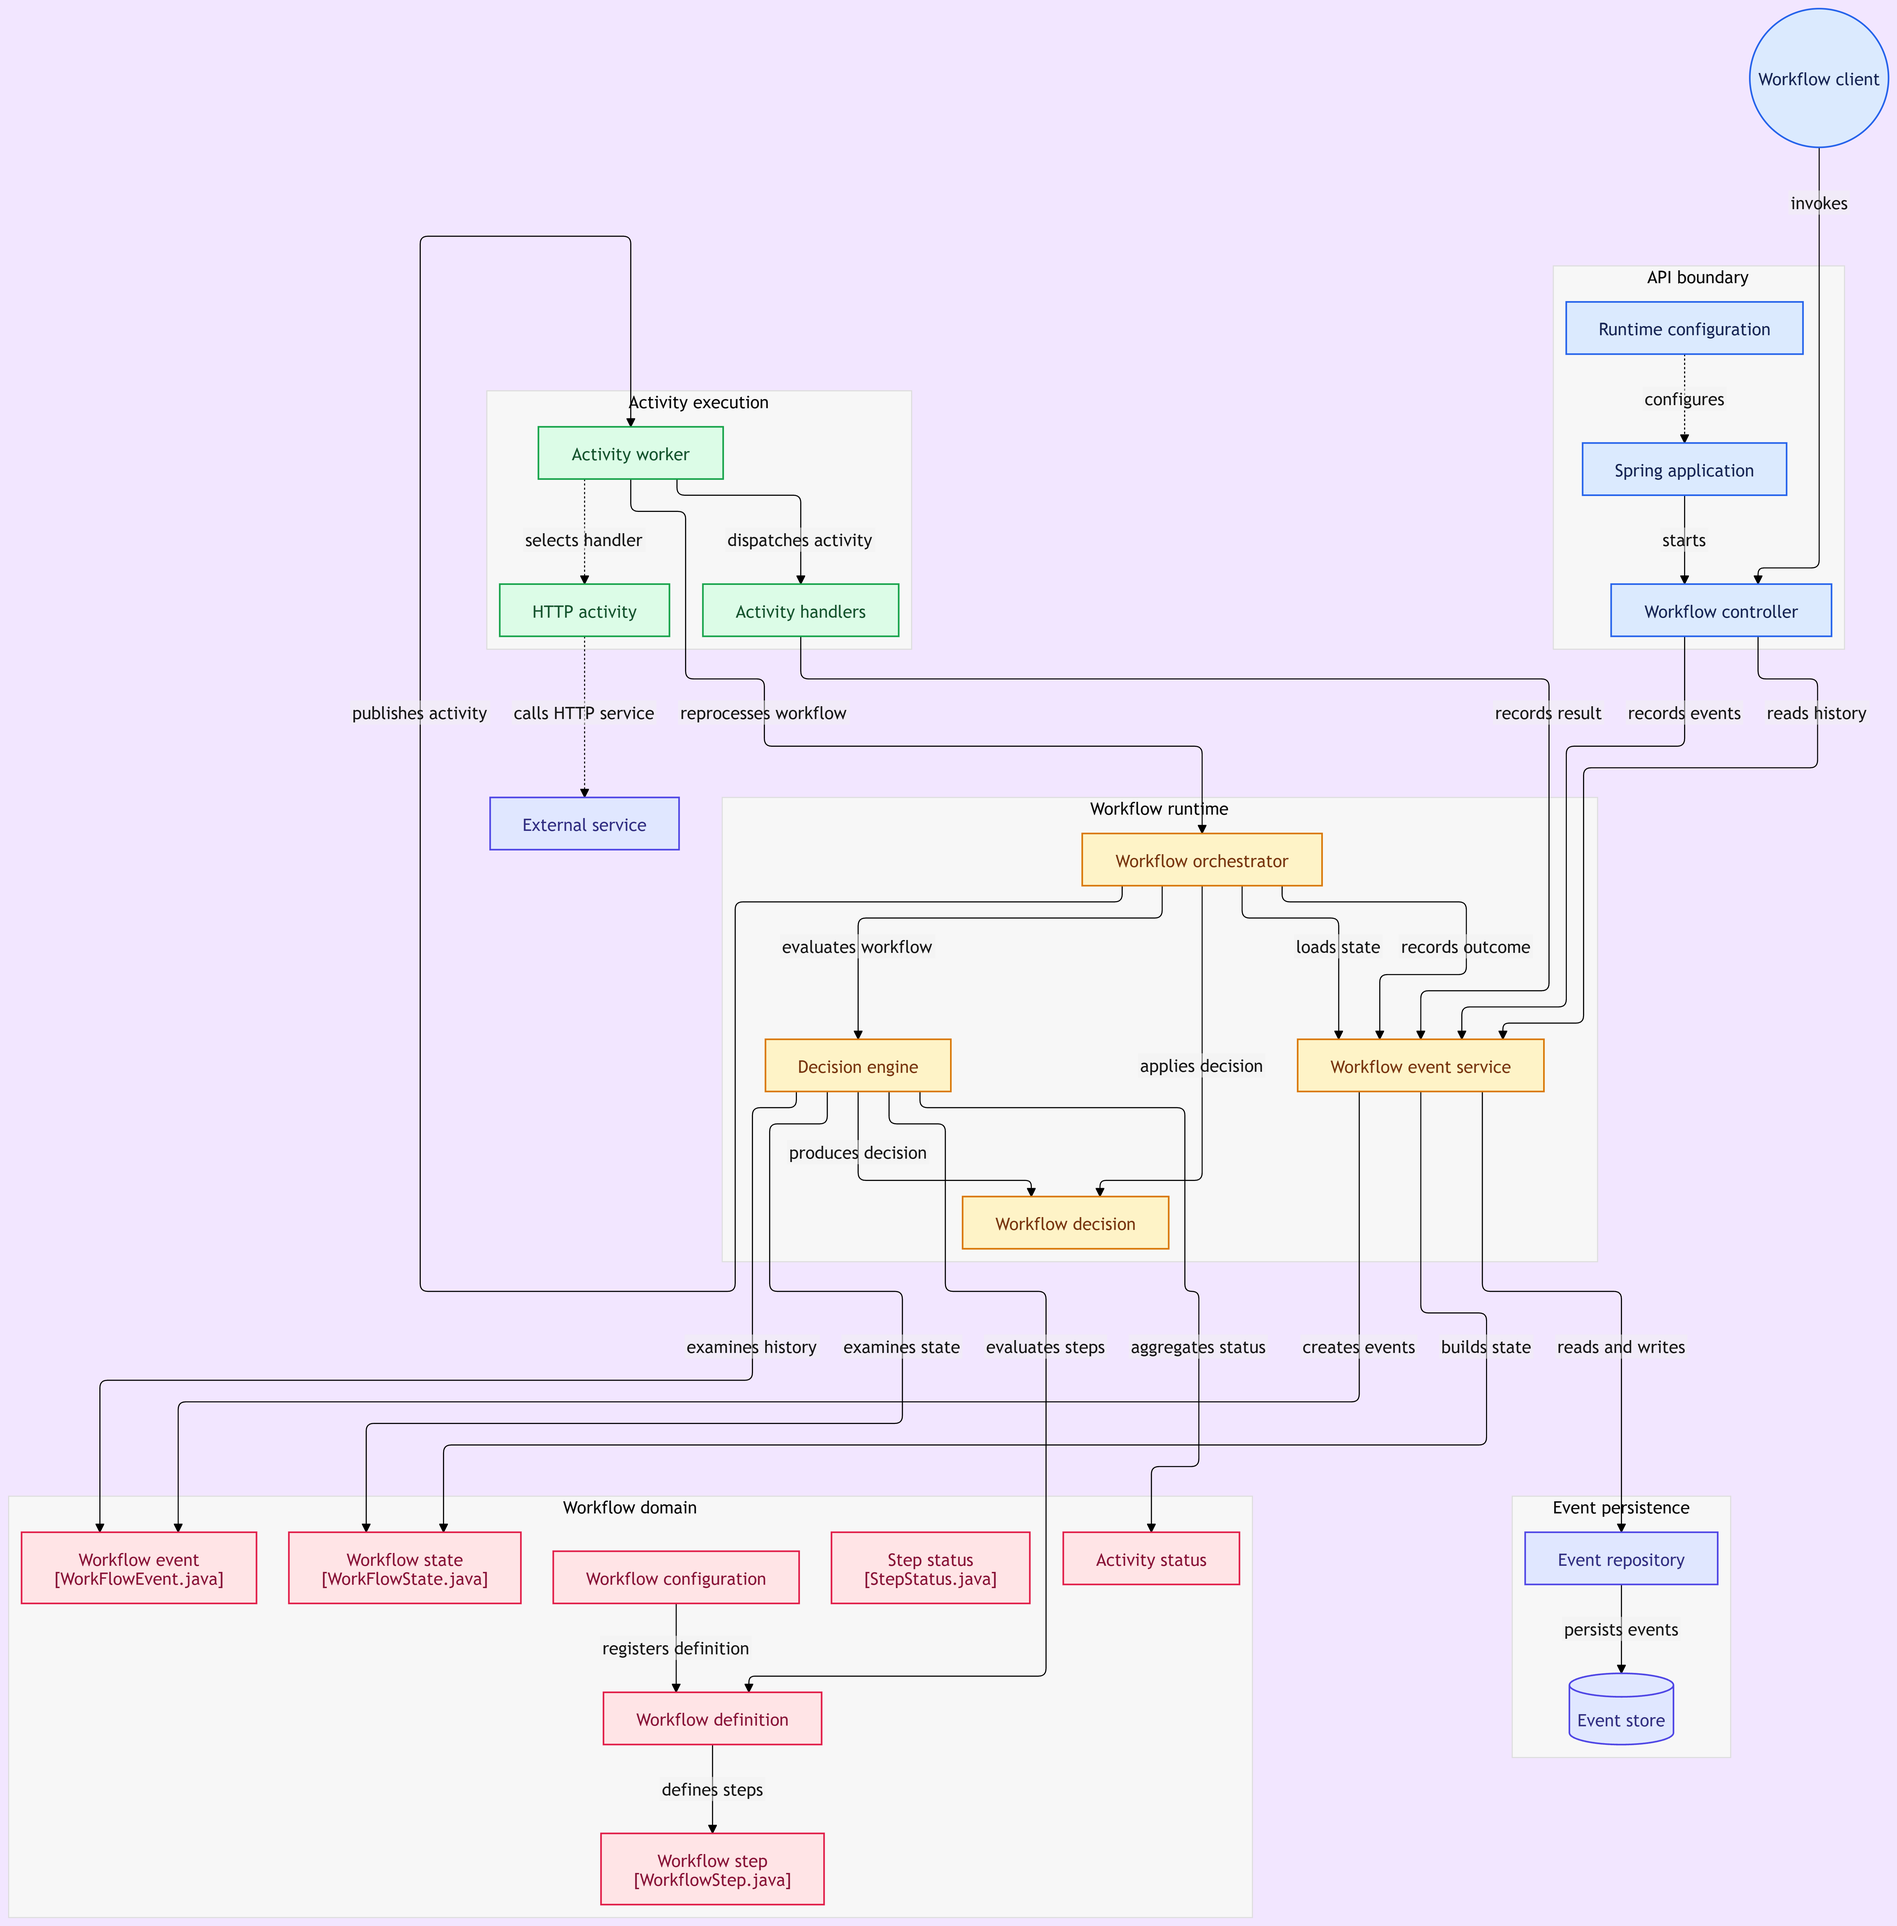
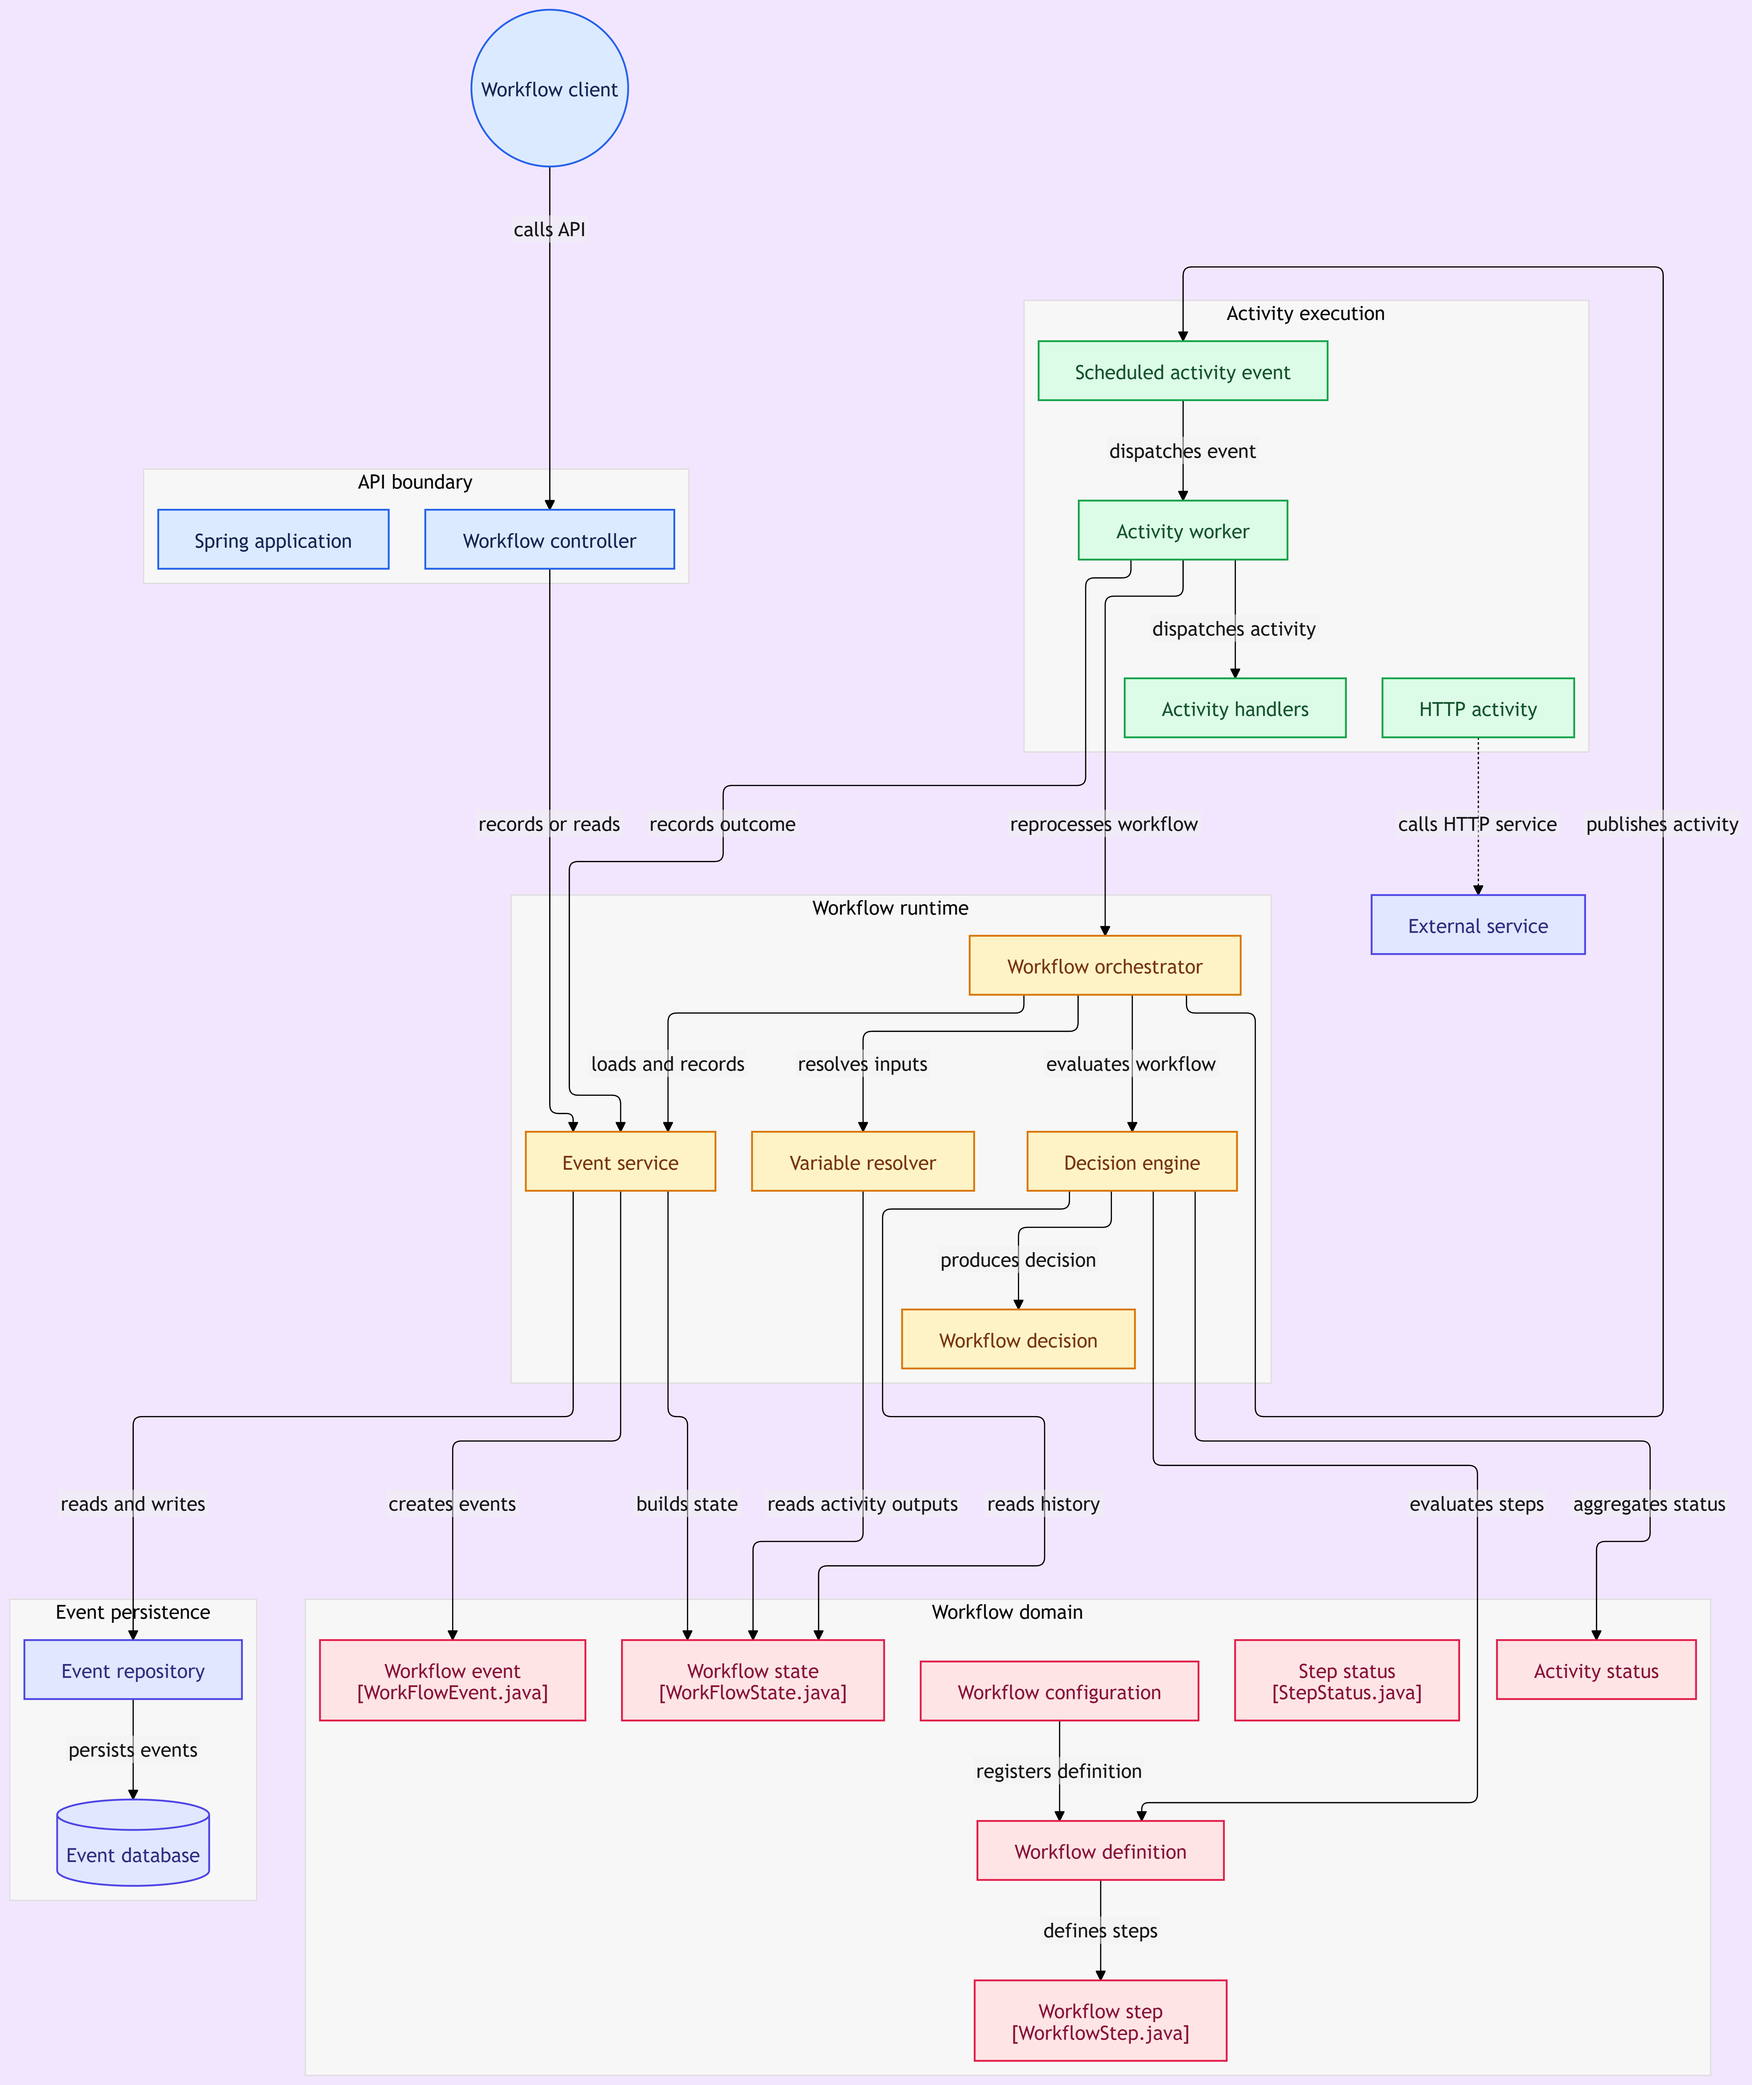
updated flow

diff --git a/README.md b/README.md
@@ -4,19 +4,20 @@ flowchart TD
 subgraph group_api["API boundary"]
   node_application["Spring application"]
   node_controller["Workflow controller"]
-  node_runtime_config["Runtime configuration"]
 end
 
 subgraph group_runtime["Workflow runtime"]
   node_orchestrator["Workflow orchestrator"]
-  node_event_service["Workflow event service"]
+  node_event_service["Event service"]
   node_decision_engine["Decision engine"]
   node_decision["Workflow decision"]
+  node_resolver["Variable resolver"]
 end
 
-subgraph group_activity["Activity execution"]
-  node_worker_listener["Activity worker"]
-  node_activity_handler["Activity handlers"]
+subgraph group_activities["Activity execution"]
+  node_scheduled_event["Scheduled activity event"]
+  node_worker["Activity worker"]
+  node_handler["Activity handlers"]
   node_http_handler["HTTP activity"]
 end
 
@@ -32,48 +33,45 @@ end
 
 subgraph group_persistence["Event persistence"]
   node_repository["Event repository"]
-  node_store[("Event store")]
+  node_store[("Event database")]
 end
 
 node_client(("Workflow client"))
 node_external_service["External service"]
 
-node_application -->|"starts"| node_controller
-node_runtime_config -.->|"configures"| node_application
-node_client -->|"invokes"| node_controller
-node_controller -->|"records events"| node_event_service
-node_controller -->|"reads history"| node_event_service
+node_client -->|"calls API"| node_controller
+node_controller -->|"records or reads"| node_event_service
+node_orchestrator -->|"loads and records"| node_event_service
+node_orchestrator -->|"evaluates workflow"| node_decision_engine
+node_decision_engine -->|"produces decision"| node_decision
+node_decision_engine -->|"reads history"| node_state
+node_decision_engine -->|"evaluates steps"| node_definition
+node_decision_engine -->|"aggregates status"| node_activity_status
+node_orchestrator -->|"resolves inputs"| node_resolver
+node_resolver -->|"reads activity outputs"| node_state
+node_orchestrator -->|"publishes activity"| node_scheduled_event
+node_scheduled_event -->|"dispatches event"| node_worker
+node_worker -->|"dispatches activity"| node_handler
+node_worker -->|"records outcome"| node_event_service
+node_worker -->|"reprocesses workflow"| node_orchestrator
+node_http_handler -.->|"calls HTTP service"| node_external_service
+node_configuration -->|"registers definition"| node_definition
+node_definition -->|"defines steps"| node_step
 node_event_service -->|"reads and writes"| node_repository
 node_repository -->|"persists events"| node_store
 node_event_service -->|"creates events"| node_event
 node_event_service -->|"builds state"| node_state
-node_configuration -->|"registers definition"| node_definition
-node_definition -->|"defines steps"| node_step
-node_orchestrator -->|"loads state"| node_event_service
-node_orchestrator -->|"evaluates workflow"| node_decision_engine
-node_decision_engine -->|"examines state"| node_state
-node_decision_engine -->|"examines history"| node_event
-node_decision_engine -->|"evaluates steps"| node_definition
-node_decision_engine -->|"aggregates status"| node_activity_status
-node_decision_engine -->|"produces decision"| node_decision
-node_orchestrator -->|"applies decision"| node_decision
-node_orchestrator -->|"records outcome"| node_event_service
-node_orchestrator -->|"publishes activity"| node_worker_listener
-node_worker_listener -->|"dispatches activity"| node_activity_handler
-node_activity_handler -->|"records result"| node_event_service
-node_worker_listener -->|"reprocesses workflow"| node_orchestrator
-node_http_handler -.->|"calls HTTP service"| node_external_service
-node_worker_listener -.->|"selects handler"| node_http_handler
 
 click node_application "https://github.com/peekayyychu/workflow-engine/blob/main/src/main/java/com/engine/WorkflowEngineApplication.java"
 click node_controller "https://github.com/peekayyychu/workflow-engine/blob/main/src/main/java/com/engine/controller/WorkFlowController.java"
-click node_runtime_config "https://github.com/peekayyychu/workflow-engine/blob/main/src/main/resources/application.properties"
 click node_orchestrator "https://github.com/peekayyychu/workflow-engine/blob/main/src/main/java/com/engine/service/WorkFlowOrchestrator.java"
 click node_event_service "https://github.com/peekayyychu/workflow-engine/blob/main/src/main/java/com/engine/service/WorkFlowEventService.java"
 click node_decision_engine "https://github.com/peekayyychu/workflow-engine/blob/main/src/main/java/com/engine/service/WorkFlowDecisionEngine.java"
 click node_decision "https://github.com/peekayyychu/workflow-engine/blob/main/src/main/java/com/engine/service/WorkFlowDecision.java"
-click node_worker_listener "https://github.com/peekayyychu/workflow-engine/blob/main/src/main/java/com/engine/activity/ActivityWorkerListener.java"
-click node_activity_handler "https://github.com/peekayyychu/workflow-engine/blob/main/src/main/java/com/engine/activity/ActivityHandler.java"
+click node_resolver "https://github.com/peekayyychu/workflow-engine/blob/main/src/main/java/com/engine/resolver/VariableResolver.java"
+click node_scheduled_event "https://github.com/peekayyychu/workflow-engine/blob/main/src/main/java/com/engine/model/ActivityScheduledEvent.java"
+click node_worker "https://github.com/peekayyychu/workflow-engine/blob/main/src/main/java/com/engine/activity/ActivityWorkerListener.java"
+click node_handler "https://github.com/peekayyychu/workflow-engine/blob/main/src/main/java/com/engine/activity/ActivityHandler.java"
 click node_http_handler "https://github.com/peekayyychu/workflow-engine/blob/main/src/main/java/com/engine/activity/HttpActivityHandler.java"
 click node_configuration "https://github.com/peekayyychu/workflow-engine/blob/main/src/main/java/com/engine/registry/WorkflowConfiguration.java"
 click node_definition "https://github.com/peekayyychu/workflow-engine/blob/main/src/main/java/com/engine/model/WorkflowDefinition.java"
@@ -91,9 +89,9 @@ classDef toneMint fill:#dcfce7,stroke:#16a34a,stroke-width:1.5px,color:#14532d
 classDef toneRose fill:#ffe4e6,stroke:#e11d48,stroke-width:1.5px,color:#881337
 classDef toneIndigo fill:#e0e7ff,stroke:#4f46e5,stroke-width:1.5px,color:#312e81
 classDef toneTeal fill:#ccfbf1,stroke:#0f766e,stroke-width:1.5px,color:#134e4a
-class node_application,node_controller,node_runtime_config,node_client toneBlue
-class node_orchestrator,node_event_service,node_decision_engine,node_decision toneAmber
-class node_worker_listener,node_activity_handler,node_http_handler toneMint
+class node_application,node_controller,node_client toneBlue
+class node_orchestrator,node_event_service,node_decision_engine,node_decision,node_resolver toneAmber
+class node_scheduled_event,node_worker,node_handler,node_http_handler toneMint
 class node_configuration,node_definition,node_step,node_event,node_state,node_activity_status,node_step_status toneRose
 class node_repository,node_store,node_external_service toneIndigo
 ```
